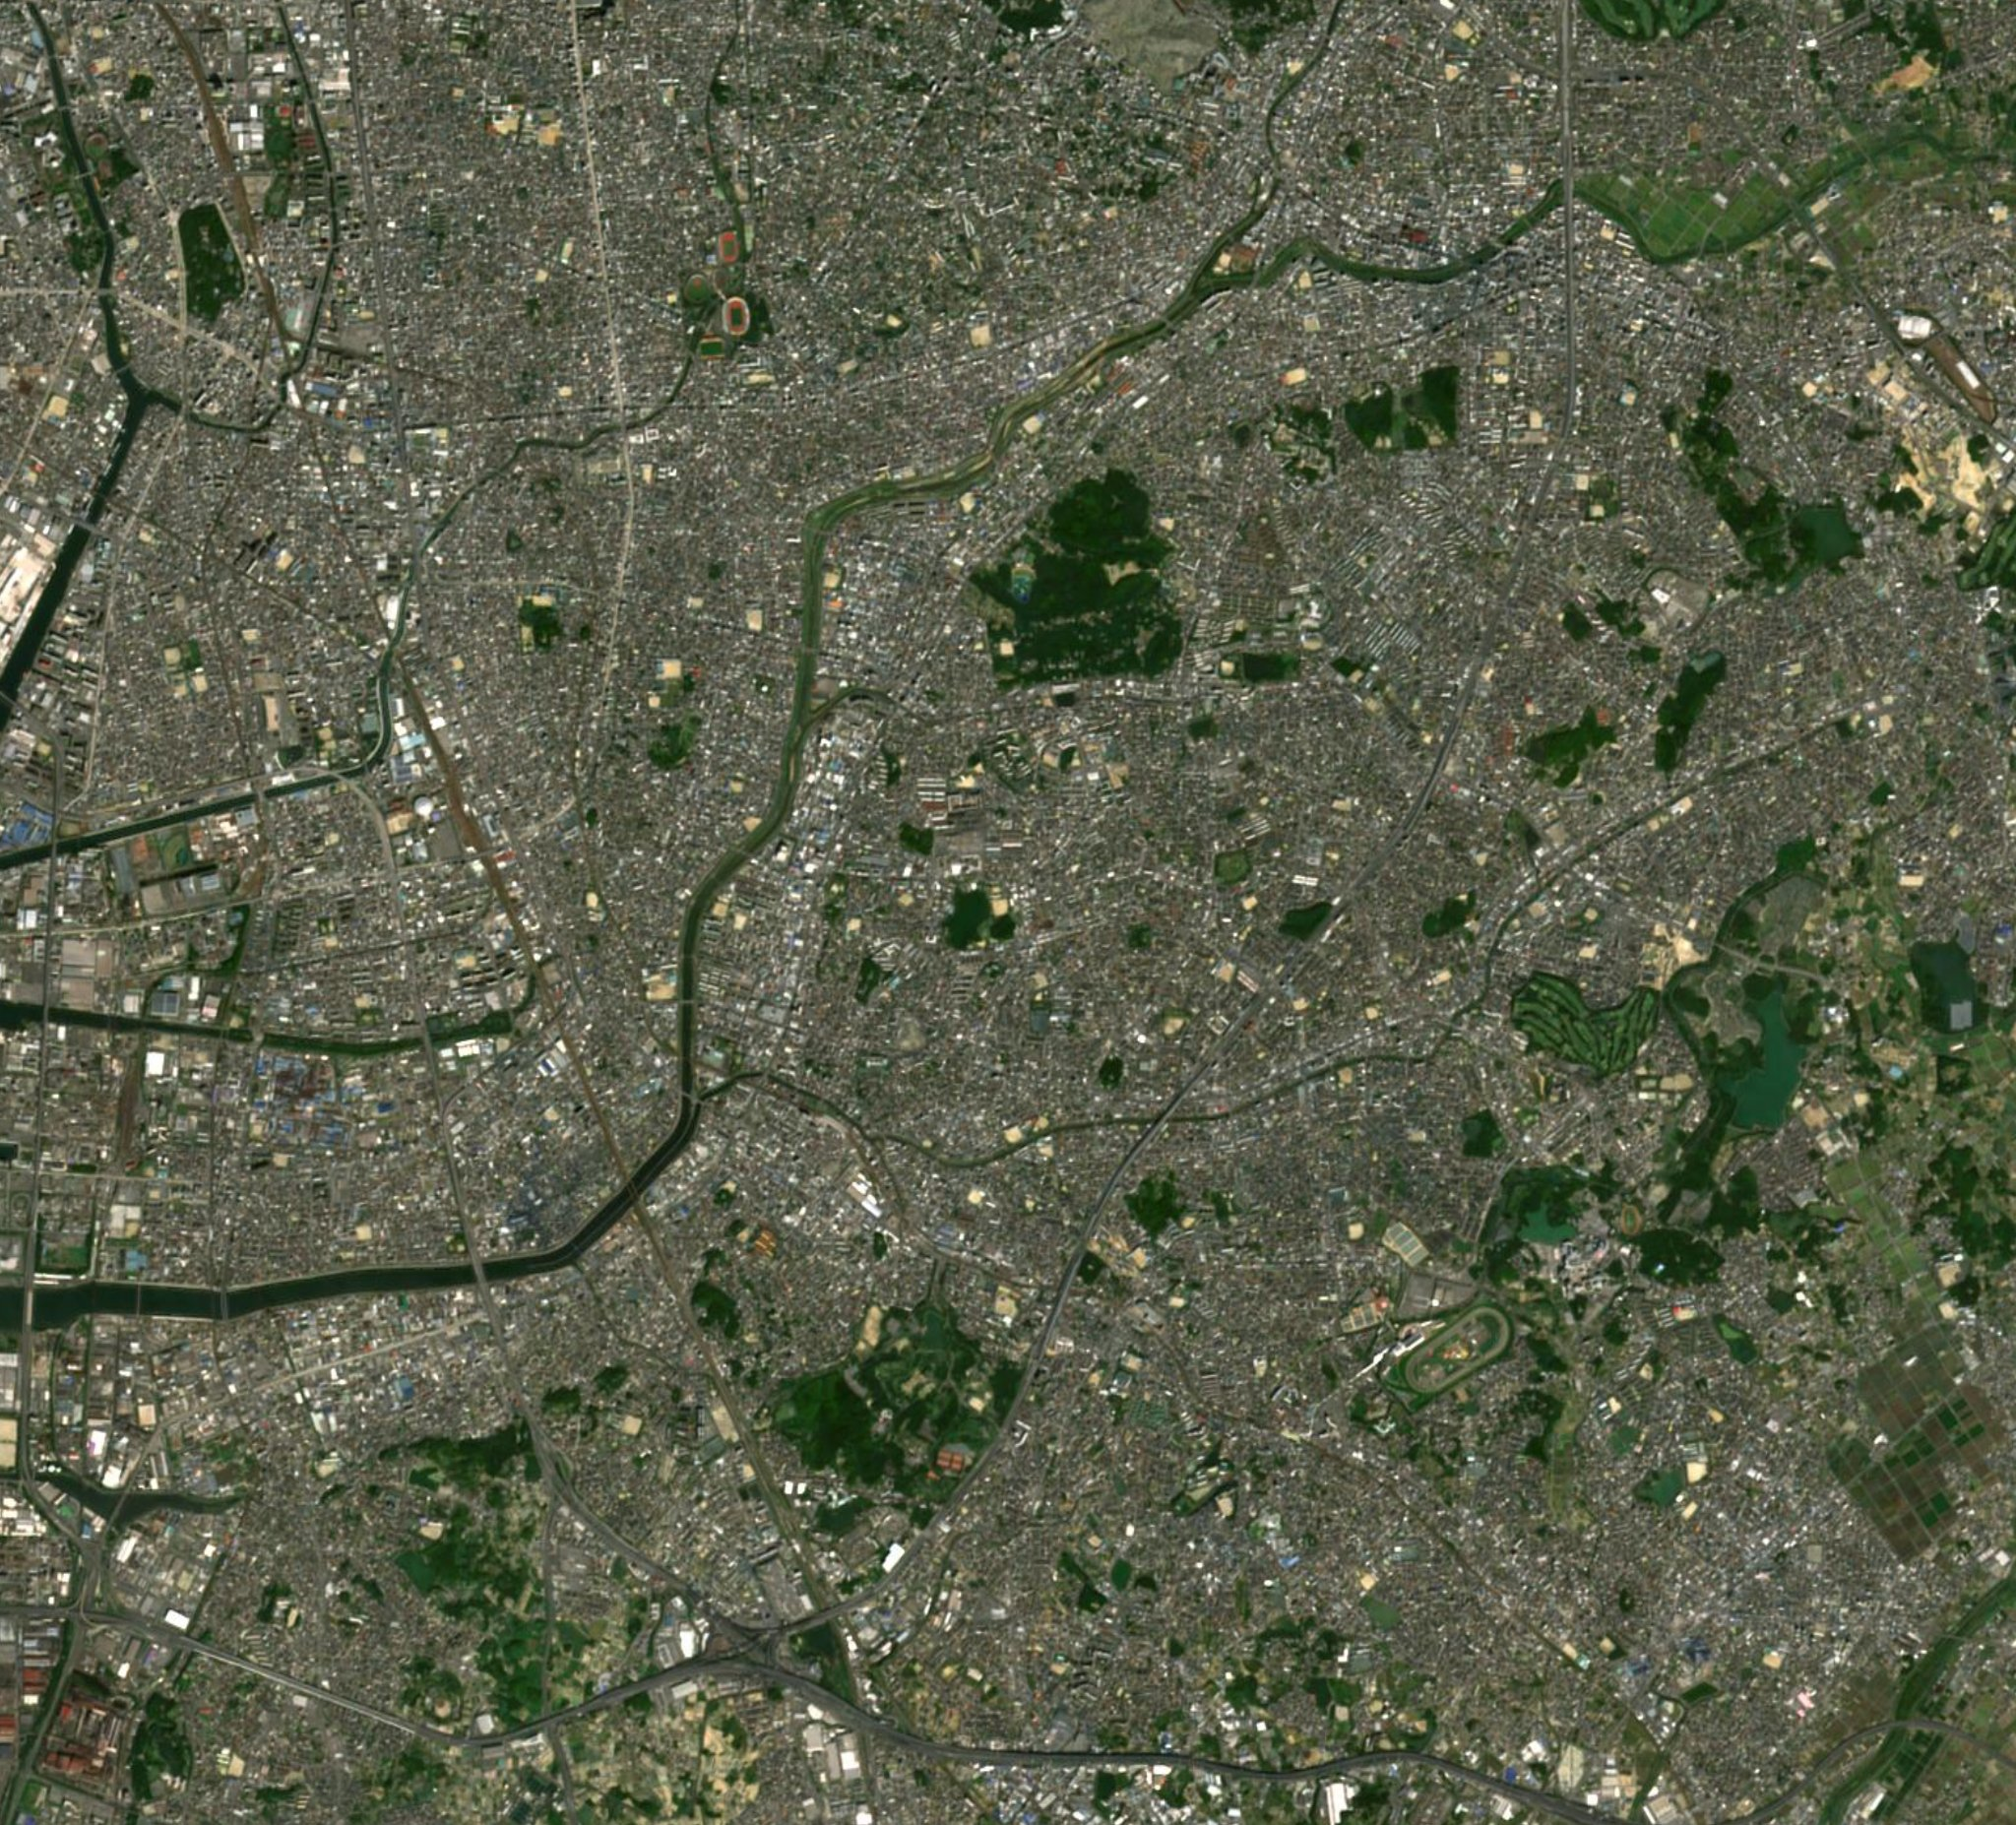
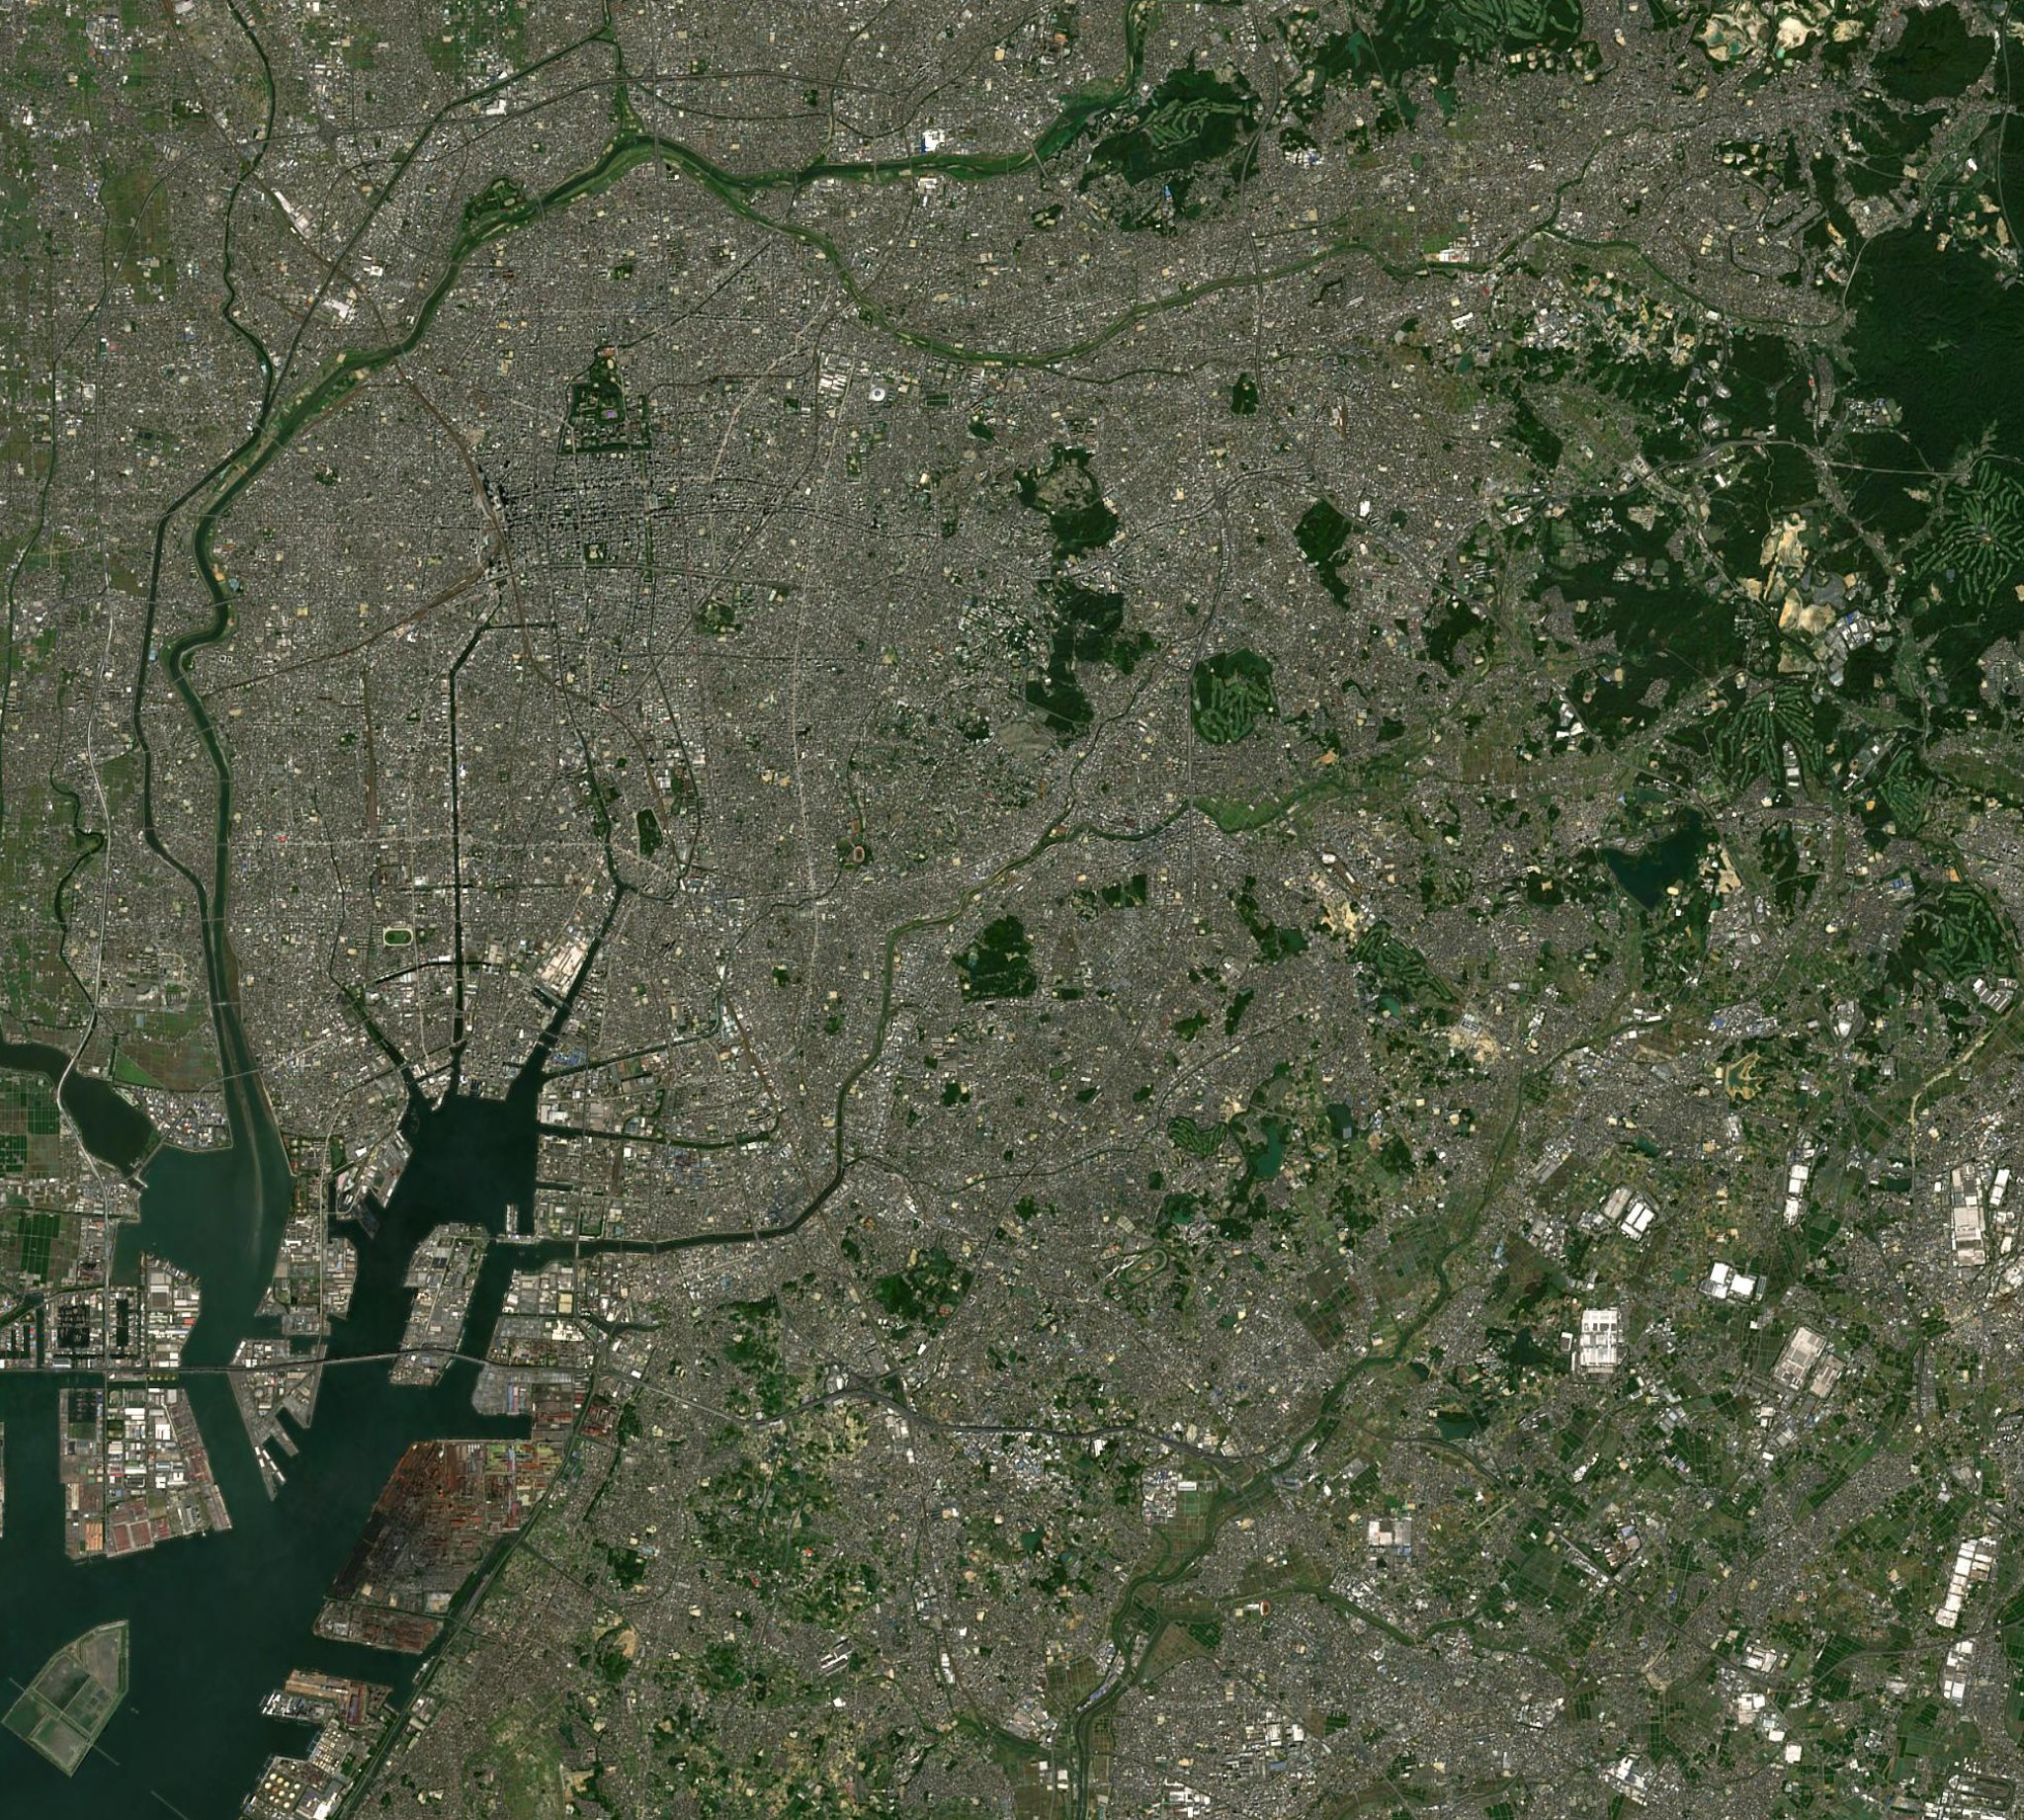
feat: 桶狹間大幅擴大地圖範圍——填滿畫面、納入清洲城
原 DEM/衛星僅 12×11km，戰場周邊大片空白。擴大約 5 倍面積至
lng 136.80–137.14 / lat 34.99–35.24（含清洲・名古屋・伊勢灣・三河丘陵），
戰場仍置中、周邊真實地形填滿畫面。

- fetch_dem_okehazama.py：新範圍 161×141（~190m 解析度，海拔 0–333m）
- heightmap.js / okehazama-sat.jpg：重抓對齊新 bbox
- geography：新增清洲城、那古野城；信長進軍路線自清洲起
- armies：信長 track 自清洲城出陣（敦盛之舞→清洲出陣→熱田）
- storyboard：敦盛鏡頭對準清洲；開場/結尾運鏡拉遠（dist 300）涵蓋全圖

diff --git a/data/okehazama/geography.js b/data/okehazama/geography.js
@@ -40,6 +40,10 @@ SEKI.geography = {
       note:"今川進軍前夜駐地（五月十八日）。義元由此向大高方向出陣。戰後賜予簗田政綱" },
     { name_zh:"熱田神宮", name_ja:"熱田神宮", type:"shrine", lng:136.9087, lat:35.1274, h:10,
       note:"信長自清洲出陣後於此參拜祈願，再向善照寺砦推進。中世前為突出伊勢灣的岬角" },
+    { name_zh:"清洲城", name_ja:"清洲城", type:"castle", lng:136.8436, lat:35.2166, h:8,
+      note:"織田信長居城・出陣起點。五月十九日拂曉接鷲津丸根急報，舞「敦盛」後單騎出陣" },
+    { name_zh:"那古野城", name_ja:"那古野城", type:"castle", lng:136.8990, lat:35.1850, h:14,
+      note:"信長少年居城（今名古屋城一帶）。1560 年時為織田領核心聚落之一" },
 
     /* --- 古海岸線 / 水域（1560 年逼近海，今多為陸） ------------------ */
     { name_zh:"年魚市潟（伊勢灣）", name_ja:"年魚市潟", type:"river", lng:136.920, lat:35.085, h:0,
@@ -55,7 +59,9 @@ SEKI.geography = {
     {
       name_zh:"信長進軍路（清洲→熱田→善照寺→中島→桶狹間）",
       path:[
-        [136.9087,35.1274], /* 熱田神宮（自清洲南下後參拜） */
+        [136.8436,35.2166], /* 清洲城出陣 */
+        [136.8800,35.1700], /* 南下 */
+        [136.9087,35.1274], /* 熱田神宮參拜 */
         [136.9504,35.0980], /* 鳴海潟邊緣南下 */
         [136.9575,35.0816], /* 善照寺砦集結 */
         [136.9540,35.0769], /* 中島砦前進 */

diff --git a/data/okehazama/armies.js b/data/okehazama/armies.js
@@ -18,9 +18,10 @@ SEKI.armies = [
   { id:"nobunaga", name_zh:"織田信長", name_ja:"織田信長", side:'east', crest:'mokkou', kind:'command',
     title:"織田 總大將 · 清洲→熱田→善照寺→中島→桶狹間", troops:2000,
     track:[
-      { t:-8,  lng:136.910, lat:35.115, s:2000, st:'hold' },     // 清洲方向（整軍待報）
-      { t:3,   lng:136.910, lat:35.115, s:2000, st:'hold' },     // 接鷲津丸根急報、舞「敦盛」
-      { t:4,   lng:136.9087,lat:35.1274,s:2000, st:'march' },    // 熱田神宮參拜出陣
+      { t:-8,  lng:136.8436,lat:35.2166,s:2000, st:'hold' },     // 清洲城（整軍待報）
+      { t:3,   lng:136.8436,lat:35.2166,s:2000, st:'hold' },     // 接鷲津丸根急報、舞「敦盛」
+      { t:3.6, lng:136.8436,lat:35.2166,s:2000, st:'march' },    // 清洲出陣（單騎先行）
+      { t:4.5, lng:136.9087,lat:35.1274,s:2000, st:'march' },    // 熱田神宮參拜
       { t:7,   lng:136.9540,lat:35.1000,s:2000, st:'march' },    // 沿鳴海潟南下
       { t:9,   lng:136.9575,lat:35.0816,s:2000, st:'hold' },     // 善照寺砦集結（約二千~三千）
       { t:11.5,lng:136.9540,lat:35.0769,s:2000, st:'march' },    // 前進中島砦

diff --git a/data/okehazama/storyboard.js b/data/okehazama/storyboard.js
@@ -8,7 +8,7 @@ window.SEKI = window.SEKI || {};
 
 SEKI.storyboard = [
   /* ---------------- 戰略階段（五月十八日） ---------------- */
-  { t:-8, hold:13, cam:{lng:136.990, lat:35.066, dist:205, az:70, el:32, orbit:0.4},
+  { t:-8, hold:13, cam:{lng:136.955, lat:35.100, dist:300, az:65, el:34, orbit:0.35},
     dateLabel:"永祿三年五月十八日 · 尾張南部", title_zh:"今川大軍西上 · 沓掛布陣",
     title_en:"Imagawa's Host Advances West",
     narration_zh:"今川義元親率大軍（史料號二萬~四萬五千，眾說紛紜）自駿府西進，入沓掛城布陣。其鋒已楔入尾張南部，鳴海、大高、沓掛三城皆附今川，直逼織田領。一說為上洛、近年學界多主張為侵攻尾張。",
@@ -21,7 +21,7 @@ SEKI.storyboard = [
     commanders:[{zh:"松平元康",en:"Matsudaira Motoyasu"}], focus:["matsudaira"], side:"west" },
 
   /* ---------------- 決戰階段（五月十九日） ---------------- */
-  { t:3, hold:12, cam:{lng:136.910, lat:35.116, dist:120, az:20, el:36, orbit:0.5},
+  { t:3, hold:12, cam:{lng:136.8436, lat:35.2166, dist:120, az:20, el:36, orbit:0.5},
     dateLabel:"五月十九日 · 拂曉 · 清洲", title_zh:"敦盛之舞 · 信長單騎出陣",
     title_en:"The Dance of Atsumori",
     narration_zh:"鷲津・丸根告急的急報連夜傳至清洲。信長起身舞幸若舞「敦盛」——『人間五十年，下天のうちをくらぶれば、夢幻のごとくなり』——舞罷著具足、立食、僅率少數隨從策馬先行出陣。",
@@ -98,7 +98,7 @@ SEKI.storyboard = [
     commanders:[{zh:"今川義元",en:"Imagawa Yoshimoto"},{zh:"毛利新介",en:"Mōri Shinsuke"},{zh:"服部小平太",en:"Hattori Koheita"}],
     focus:["yoshimoto","nobunaga"], side:"both" },
 
-  { t:14, hold:13, cam:{lng:136.965, lat:35.066, dist:185, az:30, el:32, orbit:0.4},
+  { t:14, hold:13, cam:{lng:136.955, lat:35.095, dist:300, az:30, el:34, orbit:0.35},
     dateLabel:"未刻 · 戰終 · Aftermath", title_zh:"桶狹間之後 · 信長崛起",
     title_en:"Aftermath — Nobunaga Rises",
     narration_zh:"主將既亡，今川大軍瓦解東歸。此役除去信長東方的最大威脅，使他得以統一尾張、進取美濃，七年後入主岐阜、舉『天下布武』。人質松平元康則撤回三河岡崎、脫離今川獨立，奠定日後德川霸業之始。",

diff --git a/fetch_dem_okehazama.py b/fetch_dem_okehazama.py
@@ -6,10 +6,11 @@
 """
 import json, time, urllib.request, urllib.parse, sys
 
-# 桶狹間古戰場核心區（含熱田、鳴海、大高、桶狹間、沓掛）
-LNG_MIN, LNG_MAX = 136.895, 137.030   # 西:熱田  東:沓掛城
-LAT_MIN, LAT_MAX = 35.040, 35.140     # 南:桶狹間  北:熱田神宮
-COLS, ROWS = 109, 97                   # 約 110m 解析度
+# 大幅擴大顯示範圍（約 5 倍面積，填滿畫面）：
+#   西北納入清洲城(信長出陣起點)、名古屋；東至三河方向；南含知多・伊勢灣
+LNG_MIN, LNG_MAX = 136.800, 137.140   # 西:清洲・名古屋   東:沓掛以東三河方向
+LAT_MIN, LAT_MAX = 34.990, 35.240     # 南:知多・三河灣   北:清洲・名古屋市中心
+COLS, ROWS = 161, 141                  # 約 190m 解析度（更大範圍）
 API = "https://api.opentopodata.org/v1/srtm30m"
 
 # 由南到北(row 0 = LAT_MIN)、由西到東(col 0 = LNG_MIN)建格點